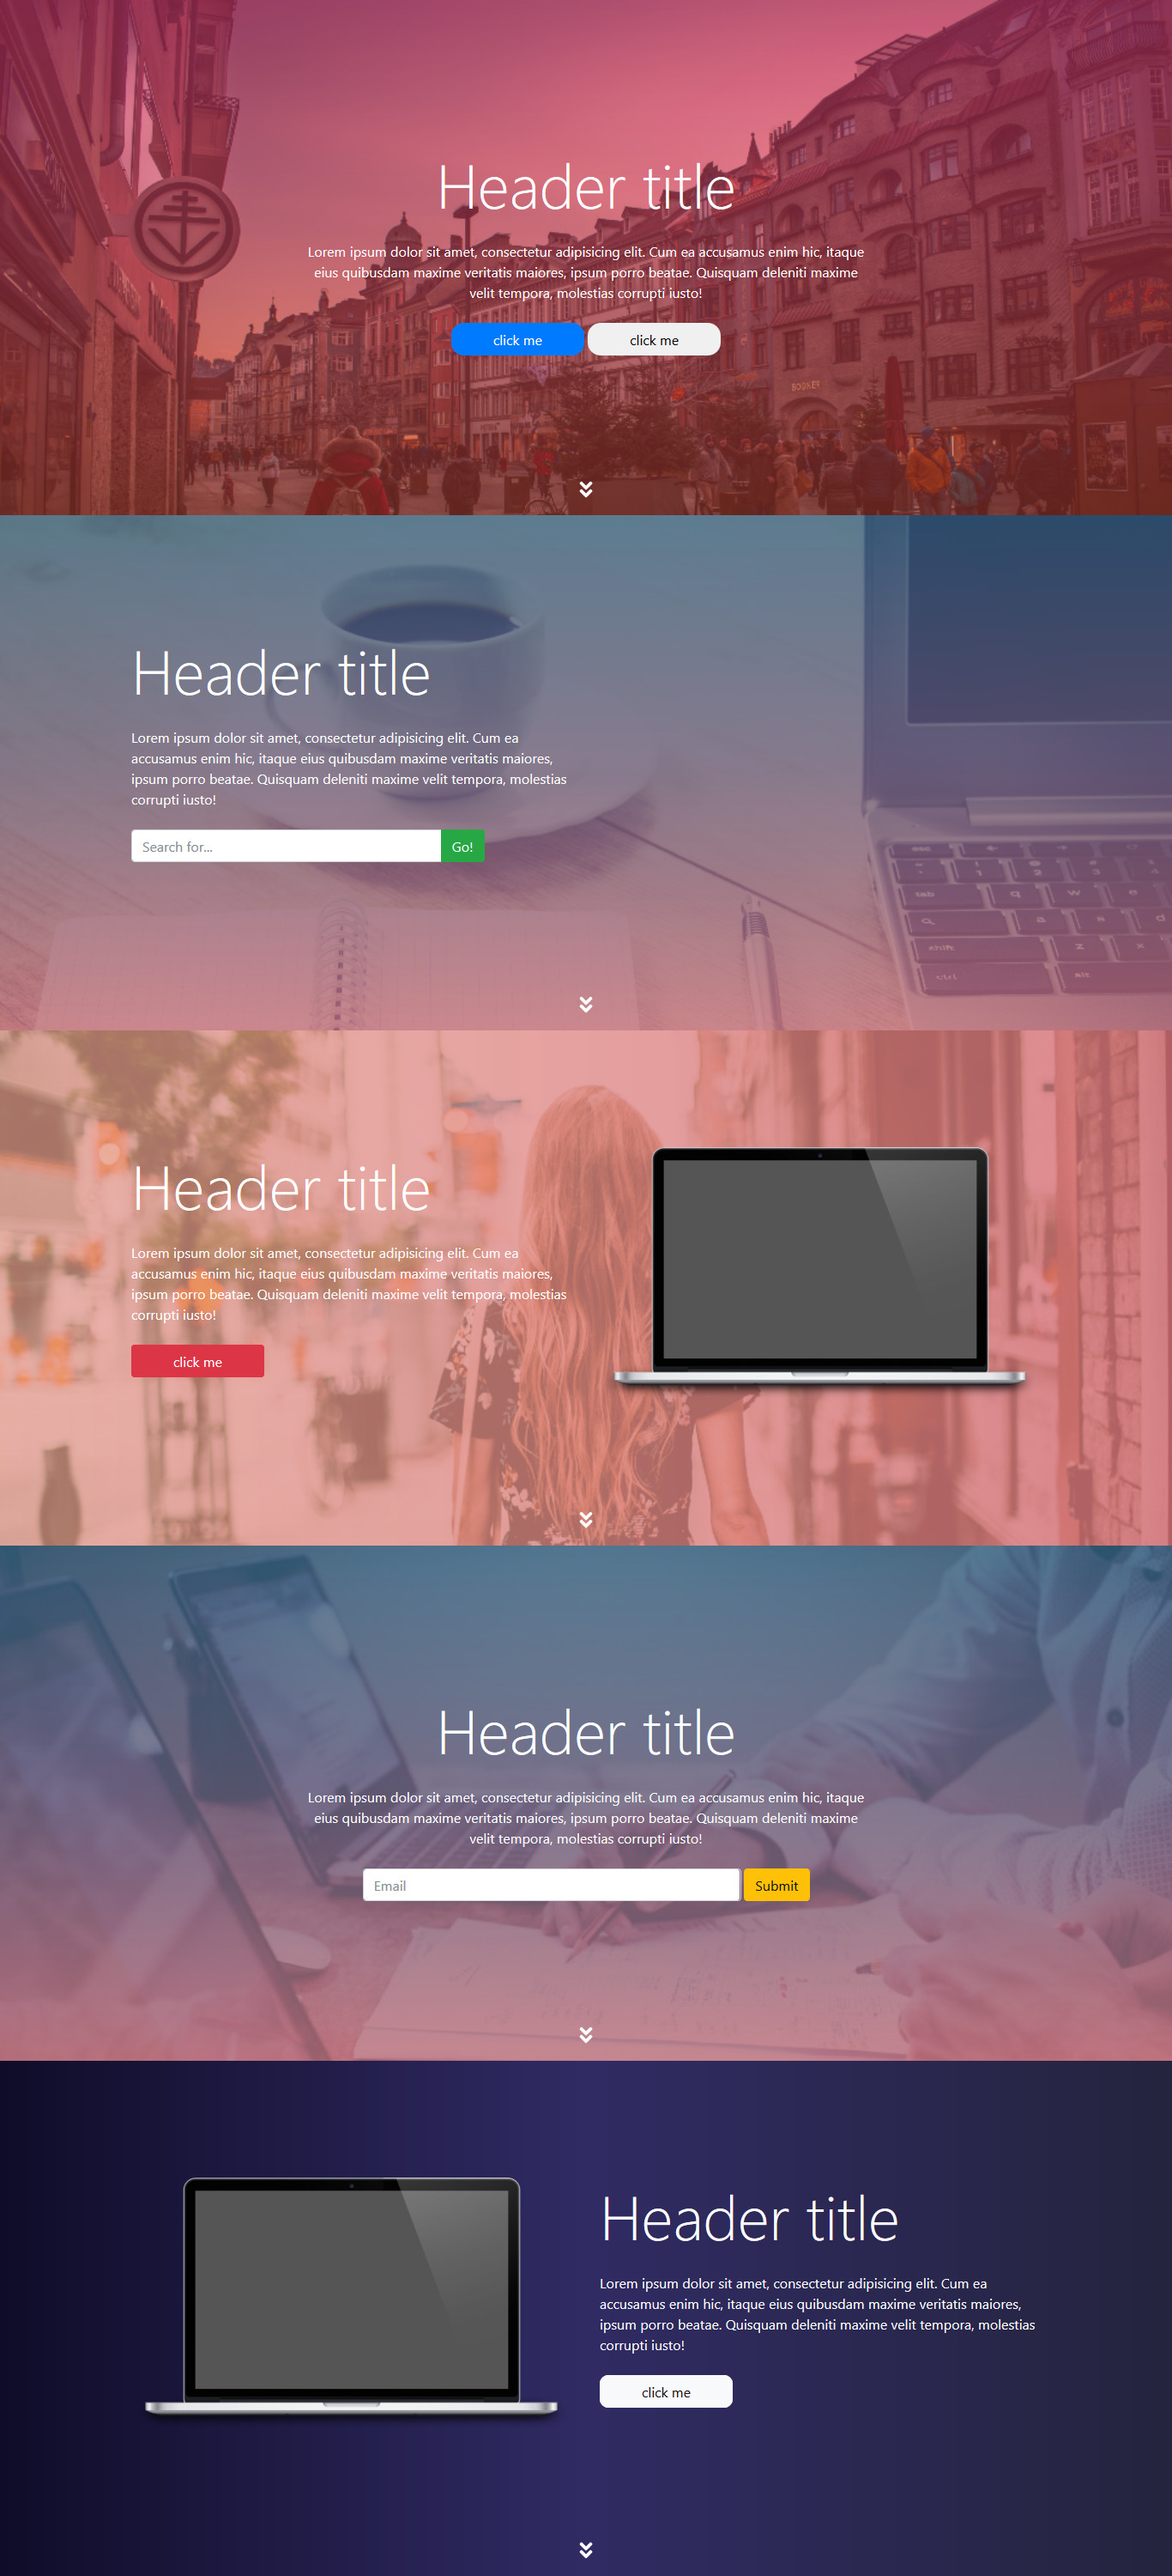
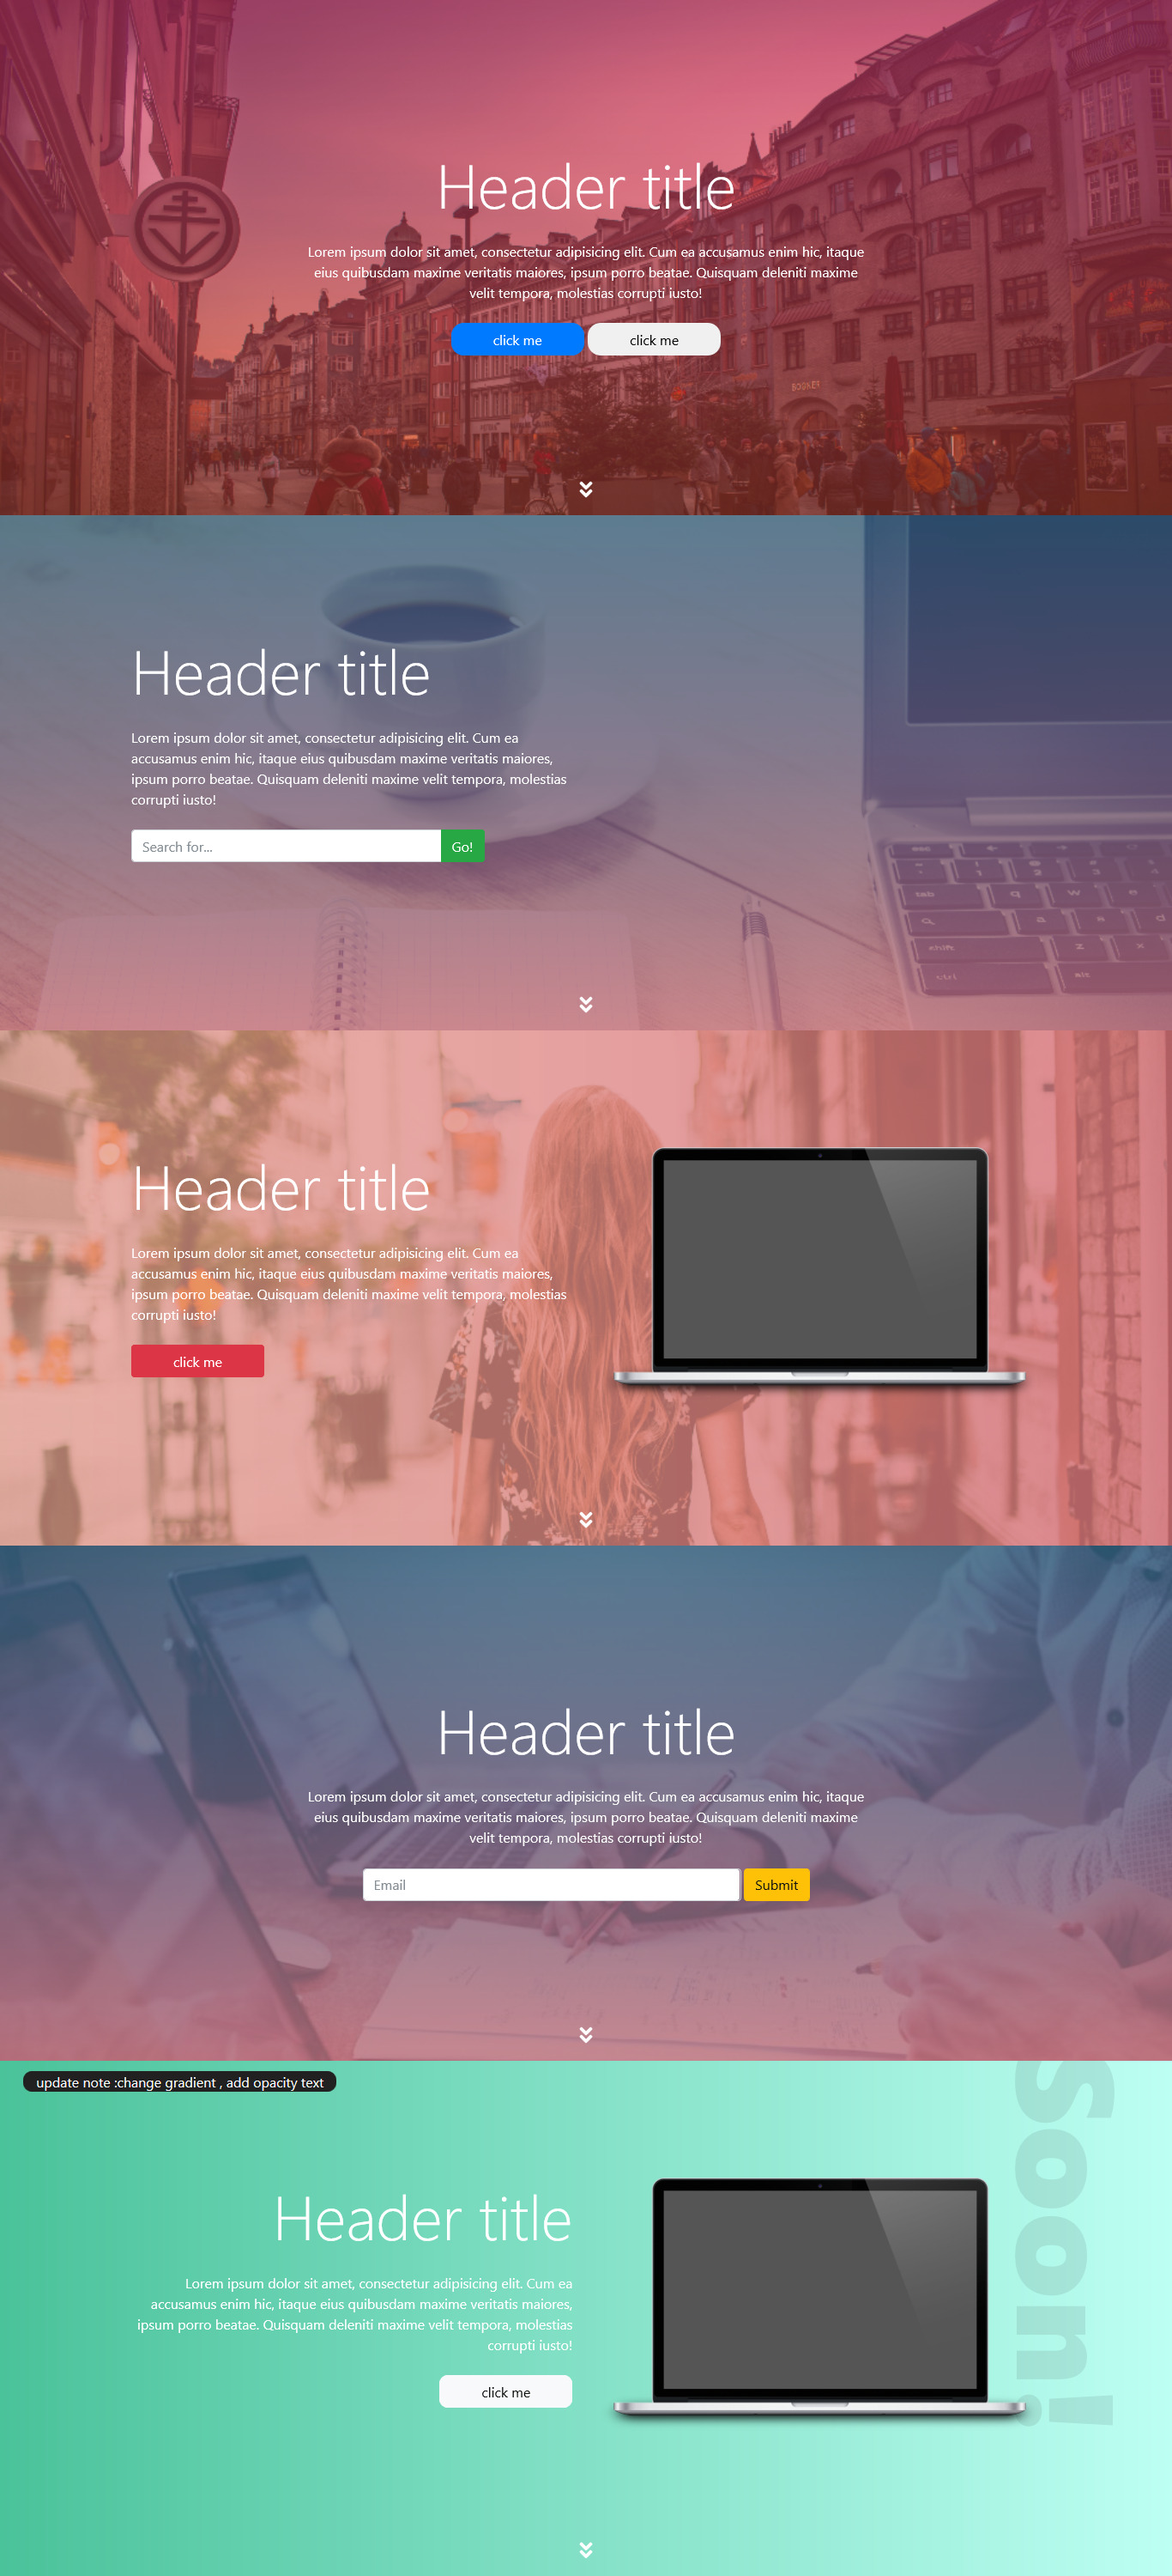
Update header#5
update header#5
fix bugs

diff --git a/sections/header/header.css b/sections/header/header.css
@@ -58,7 +58,7 @@ AlPhaD UI - Header
 	top: 50%;
 	left: 50%;
 	width: 90%;
-	transform:translate(-50%,-50%);
+	transform:translate(-50%, -50%);
 	z-index: 5; 
   padding: 1rem;
 }
@@ -67,7 +67,7 @@ AlPhaD UI - Header
 	top: 50%;
 	left: 50%;
 	width: 90%;
-	transform:translate(-50%,-50%);
+	transform:translate(-50%, -50%);
 	z-index: 5; 
   padding: 1rem;
 }
@@ -275,12 +275,23 @@ AlPhaD UI - Header
 ========================================*/
 #header5 {
 	background: #355c7d; 
-	background:
-    linear-gradient(to right, #0f0c29, #302b63, #24243e);
+	background: linear-gradient(to right, #4ac29a, #bdfff3);
   z-index: 0; 
+  overflow: hidden;
 }
-#header5 .left {
+#header5 .right {
   display: none;
+}
+#header5 .opacity-text {
+  position: absolute;
+  left: 75%;
+  top: 15%;
+  transform: translate(-50%, -50%);
+  font-size: 10rem;
+  font-weight: 900;
+  columns: #fff;
+  opacity: 0.1;
+  transform: rotate(90deg);
 }
 #header5 .caption {
 	z-index: 5; 
@@ -301,12 +312,12 @@ AlPhaD UI - Header
 }
 /*=== Large devices (desktops, 992px and up) ===*/
 @media (min-width: 992px) {
-#header5 .left {
+#header5 .right {
   display: block;
 }
 
 #header5 .caption {
-  text-align: left;
+  text-align: right;
 }
 }
  
@@ -330,6 +341,15 @@ demo css
 }
 .demo-more i {
   color: #696969;
+}
+.update-note {
+  position: absolute;
+  top: 2%;
+  left: 2%;
+  background-color: rgb(33, 33, 33);
+  color: #fff;
+  border-radius: 10px;
+  padding: 0 15px;  
 }
 a {
   text-decoration: underline;

diff --git a/sections/header/header.html b/sections/header/header.html
@@ -3,7 +3,7 @@ AlPhaD UI - Header sections
 
 * Version: 2.0
 * Build Date    :  15-12-2017 
-* Last Update   :  21-3-2018 [add animation]
+* Last Update   :  21-3-2018 [add animation, update header#5]
 * Author: ALPhA D
 * Website: www.alphadsy.com
 * Github: www.github.com/alphadsy/
@@ -101,12 +101,17 @@ AlPhaD UI - Header sections
 
 <!-- header #5 -->
 <header class="header" id="header5">
-	<div class="left animated bounceInLeft">
-	  <img src="../../images/laptop.png" alt="" class="img-fluid">
+	<!-- demo only update note -->
+	<p class="update-note">update note :change gradient , add opacity text</p>
+	
+	<div class="right">
+	  <img src="../../images/laptop.png" alt="" class="img-fluid  animated bounceInLeft">
 	</div>
 	
-	<div class="right animated bounceInRight">	
-		<div class="caption">
+	<p class="opacity-text">Soon!</p>
+	
+	<div class="left">	
+		<div class="caption animated bounceInRight">
 			<h2 class="title display-3">Header title</h2>
 			<p class="text">Lorem ipsum dolor sit amet, consectetur adipisicing elit. Cum ea accusamus enim hic, itaque eius quibusdam maxime veritatis maiores, ipsum porro beatae. Quisquam deleniti maxime velit tempora, molestias corrupti iusto!</p>
 			<button class="action btn btn-light">click me</button>	

diff --git a/README.md b/README.md
@@ -5,7 +5,7 @@
 [**Live Demo**](https://alphadsy.github.io/alpha-ui/)
  
 ### Sections:
-- Header Sections [sections/header](https://github.com/alphadsy/alpha-ui/tree/master/sections/header/)
+- Header Sections V2 [sections/header](https://github.com/alphadsy/alpha-ui/tree/master/sections/header/)
 - About Sections [sections/about](https://github.com/alphadsy/alpha-ui/tree/master/sections/about/)
 - Advance Header [sections/Advance Header](https://github.com/alphadsy/alpha-ui/tree/master/sections/header2/)
 
